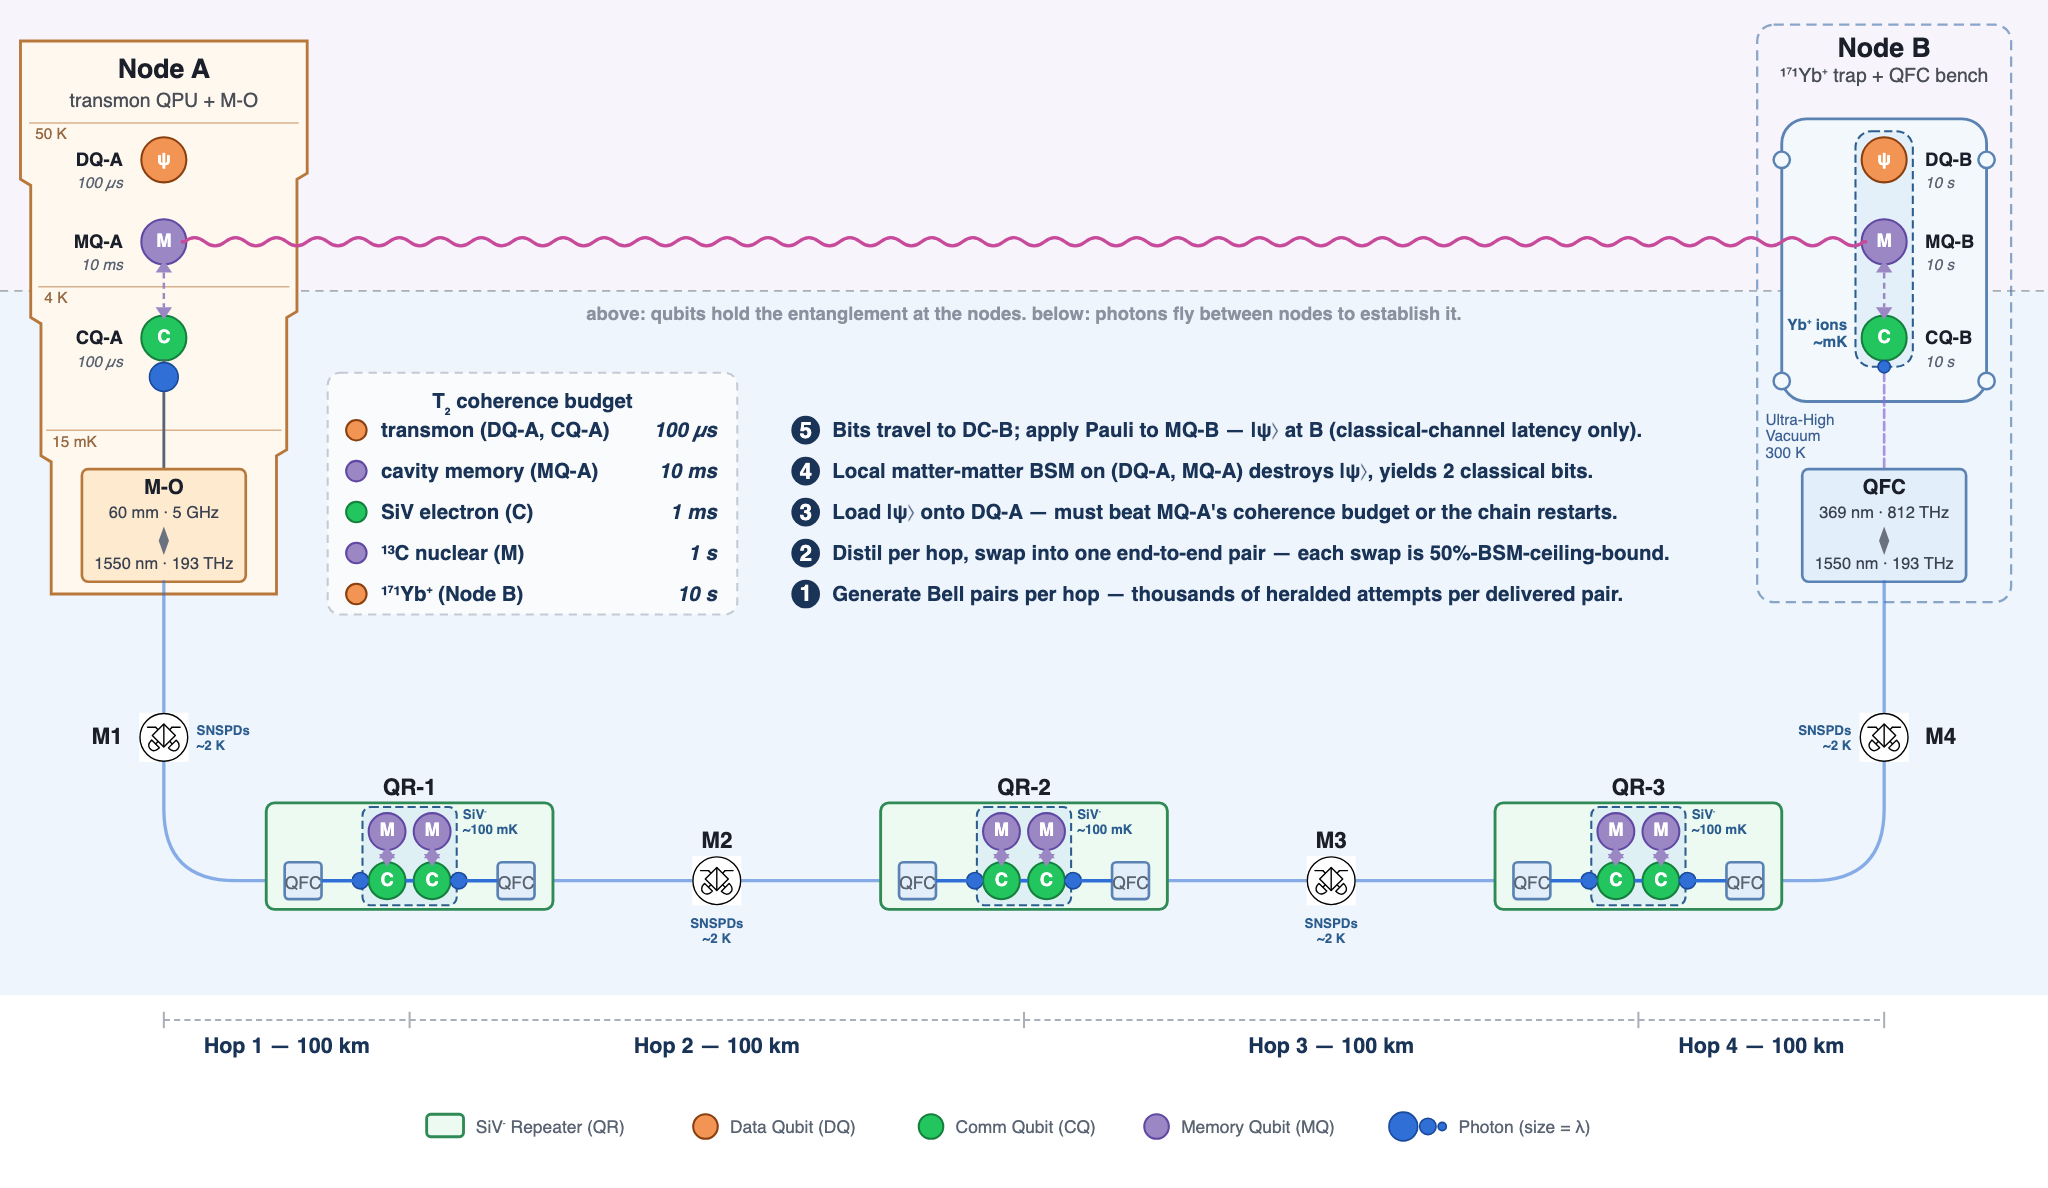
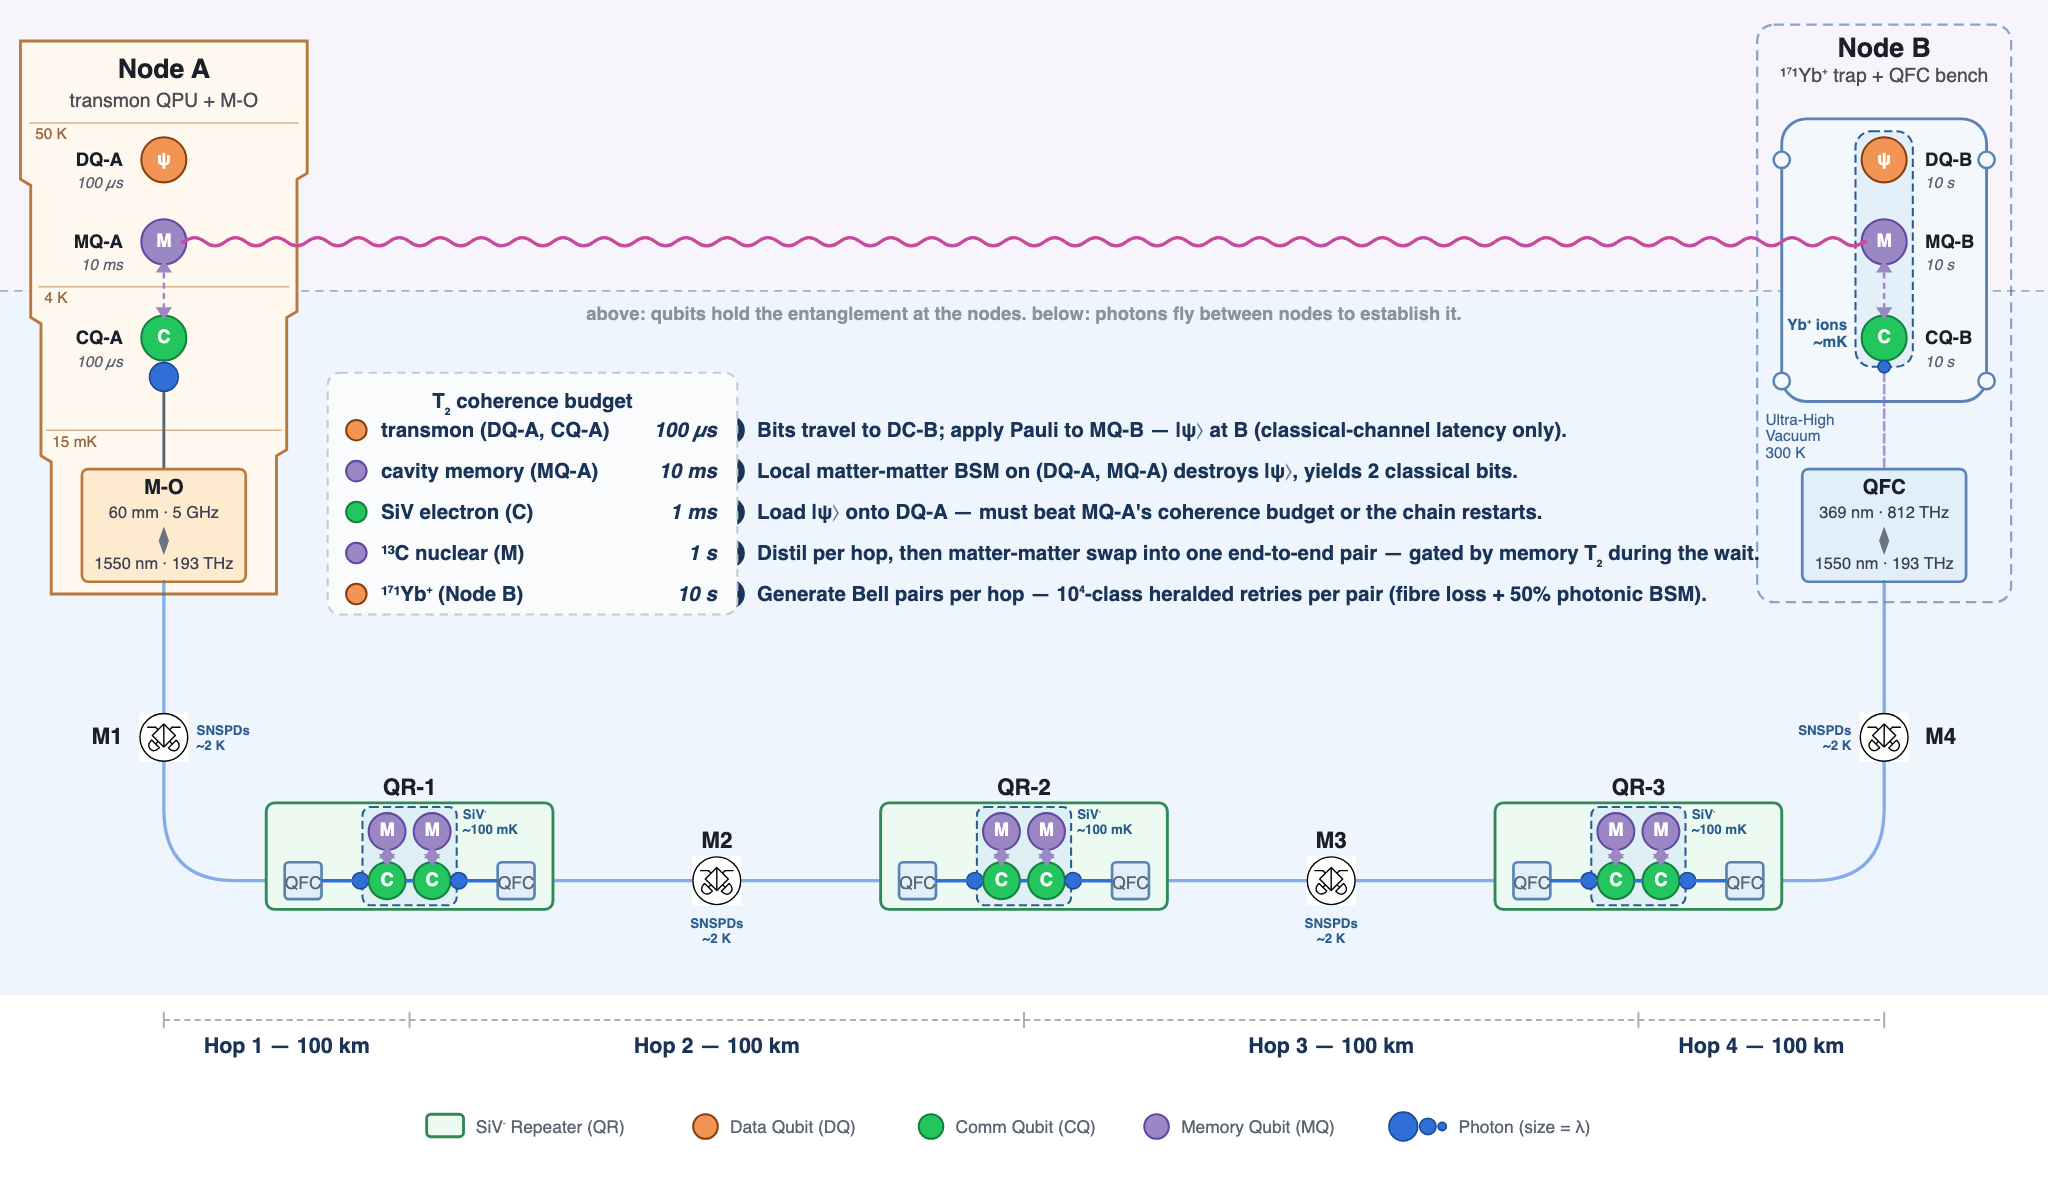
transduction: correct step 2 (matter-matter swap, no 50% ceiling), ground step 1's retry count, revert caption + design-prov styling
Two technical corrections triggered by reader pushback:

- Step 2 previously claimed the swap was '50%-BSM-ceiling-bound'.
  Wrong. The swap is a *matter-matter* Bell-state measurement done
  on the memory qubits inside a repeater node (two-qubit gates +
  projective measurement); matter-matter BSMs can in principle
  distinguish all four Bell states deterministically. The 50%
  ceiling applies only to *photonic* BSMs done with linear optics
  + photon-number detection (the M1/M2/M3/M4 midpoint stations in
  step 1). Step 2 now flags its real failure mode: 'gated by memory
  T₂ during the wait' for both adjacent hops to ready their pair.
- Step 1 previously said 'thousands of heralded attempts'. The honest
  number at a 50-km fibre hop is 10⁴-class — Knaut Nature 2024
  measured ~1 Hz pair rate from ~100 kHz attempts at 35 km, i.e.
  ~10⁵ attempts per pair. Step 1 now reads '10⁴-class heralded
  retries per pair (fibre loss + 50% photonic BSM)'.

Styling reverts:
- Figcaption back to bold lead-ins (Node A / Each repeater / Node B
  / Reference architecture). The user prefers the bolded structure
  that picks out the three labelled subsystems on the figure.
- 'Where each block comes from' demoted from aside-with-surface-2
  callout to ordinary paragraph + ul.

Changed region(s): [[0.3438, 0.3426, 0.8438, 0.5295]]

diff --git a/scripts/diagrams/topology_4hop.py b/scripts/diagrams/topology_4hop.py
@@ -552,8 +552,8 @@ def _protocol_steps(cv: Canvas) -> None:
     # Numbers are left-aligned in a single column; the whole block (badge
     # column + longest line of text) is horizontally centred on the figure.
     captions = [
-        "Generate Bell pairs per hop — thousands of heralded attempts per delivered pair.",
-        "Distil per hop, swap into one end-to-end pair — each swap is 50%-BSM-ceiling-bound.",
+        "Generate Bell pairs per hop — 10⁴-class heralded retries per pair (fibre loss + 50% photonic BSM).",
+        "Distil per hop, then matter-matter swap into one end-to-end pair — gated by memory T₂ during the wait.",
         "Load |ψ⟩ onto DQ-A — must beat MQ-A's coherence budget or the chain restarts.",
         "Local matter-matter BSM on (DQ-A, MQ-A) destroys |ψ⟩, yields 2 classical bits.",
         "Bits travel to DC-B; apply Pauli to MQ-B — |ψ⟩ at B (classical-channel latency only).",
